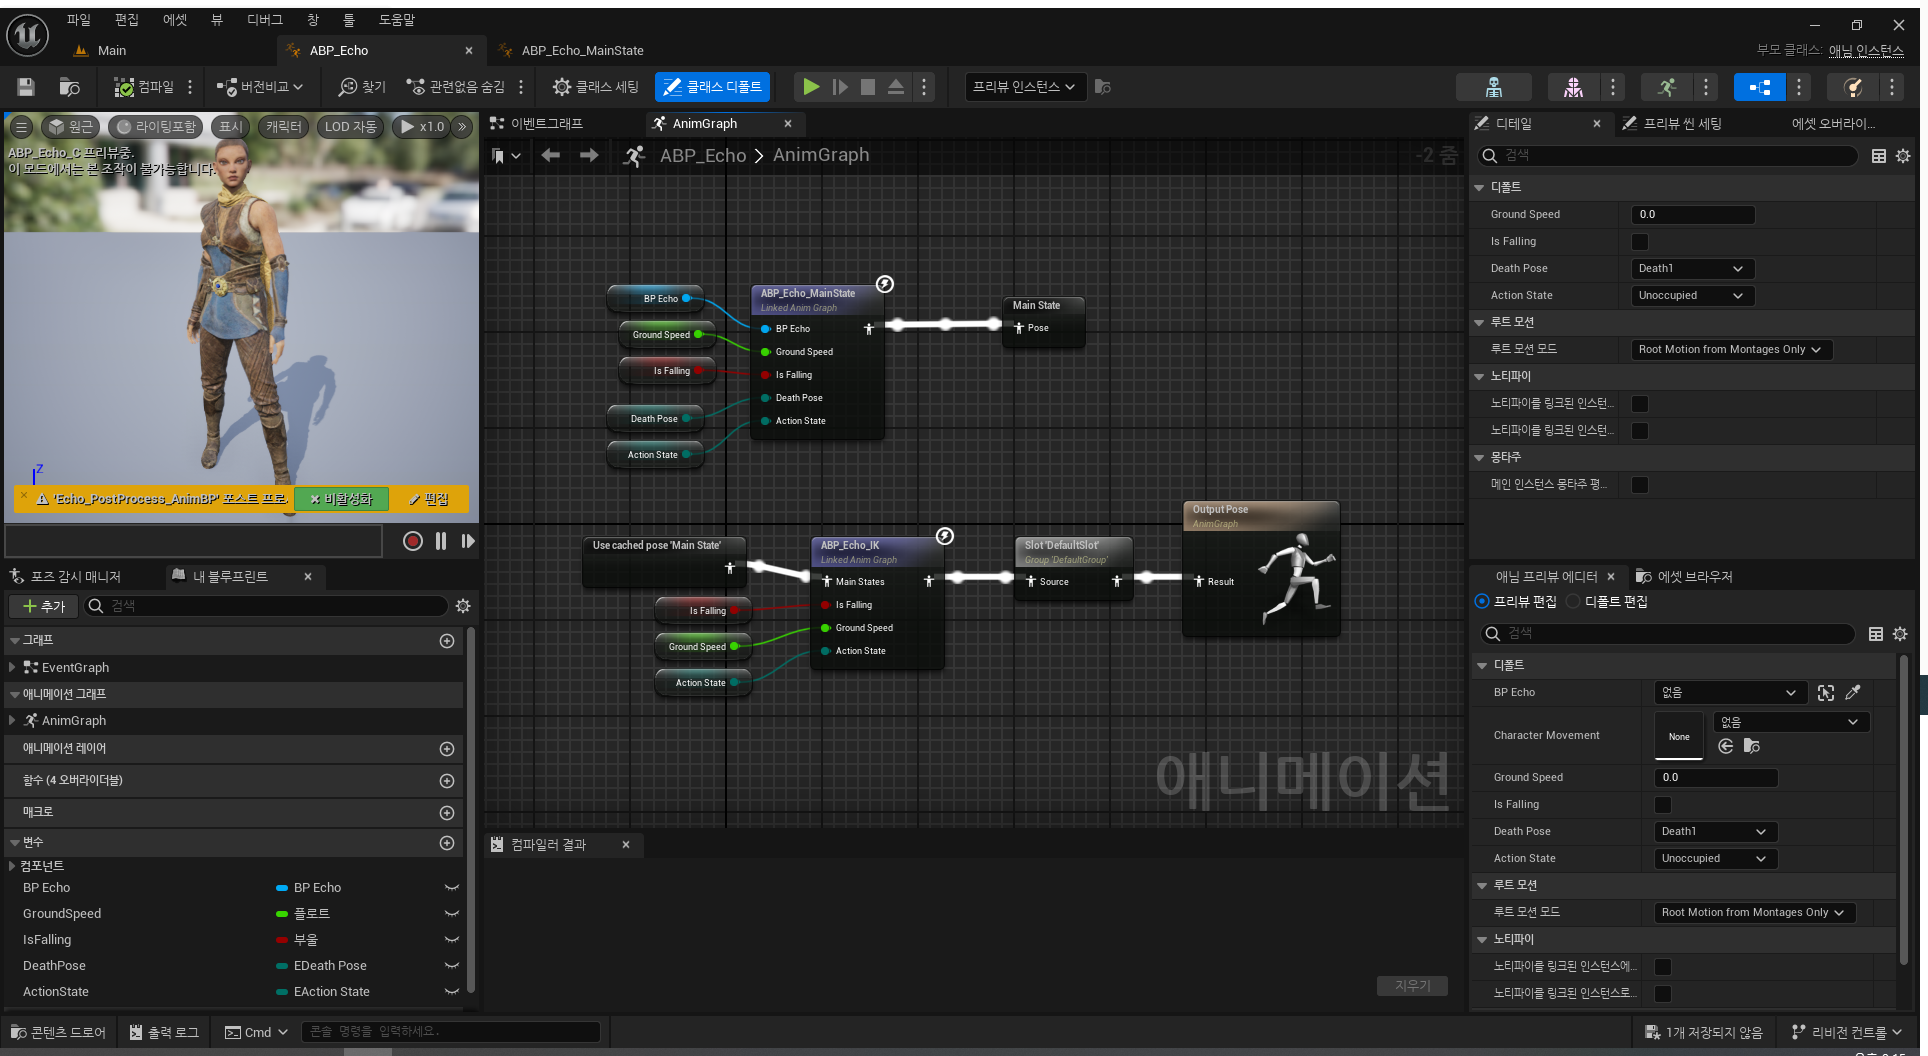
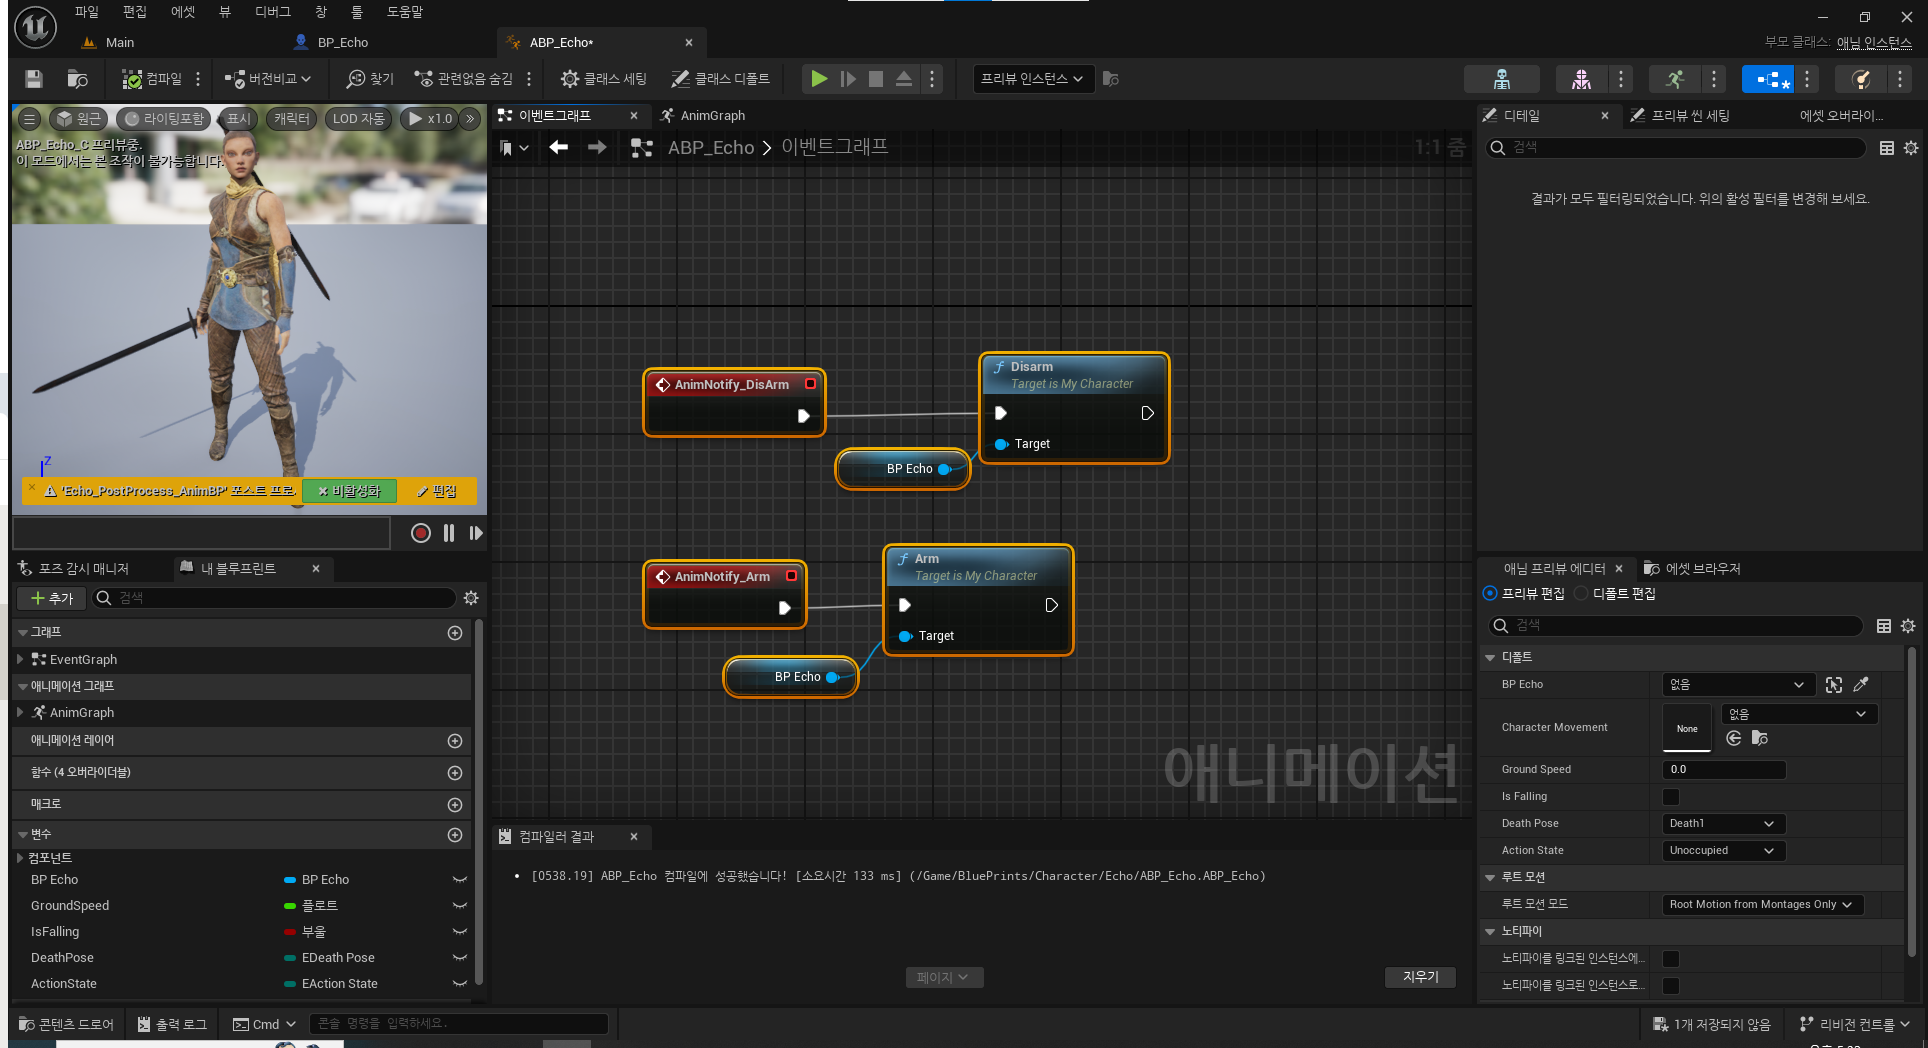
read me 변경

diff --git a/Basic RPG 09a849449f8f4e56857c8d6141968601/Animation 33b75fdd365c44f8b93b3544d35ba53e.md b/Basic RPG 09a849449f8f4e56857c8d6141968601/Animation 33b75fdd365c44f8b93b3544d35ba53e.md
@@ -1,10 +1,48 @@
 # Animation
 
-# Cached Pose
+# Weapon Equip
+
+### 스켈레탈 메시에 소켓을 추가하여 무기가 부착 될 위치 조정
 
 ![Untitled](Animation%2033b75fdd365c44f8b93b3544d35ba53e/Untitled.png)
 
+### 애님 몽타주와 노티파이를 활용하여 타이밍 체크
+
 ![Untitled](Animation%2033b75fdd365c44f8b93b3544d35ba53e/Untitled%201.png)
+
+### Weapon 부착을 위한 코드 추가
+
+```cpp
+void AMyCharacter::Disarm()
+{
+	if (EquippedWeapon)
+	{
+		EquippedWeapon->AttachMeshToSocket(GetMesh(), FName("SpineSocket"));
+	}
+}
+
+void AMyCharacter::Arm()
+{
+	if (EquippedWeapon)
+	{
+		EquippedWeapon->AttachMeshToSocket(GetMesh(), FName("RightHandSocket"));
+	}
+}
+```
+
+### 애니메이션 블루프린트에서 이벤트 그래프 활용
+
+![Untitled](Animation%2033b75fdd365c44f8b93b3544d35ba53e/Untitled%202.png)
+
+### 결과물
+
+![장착탈착.gif](Animation%2033b75fdd365c44f8b93b3544d35ba53e/%25EC%259E%25A5%25EC%25B0%25A9%25ED%2583%2588%25EC%25B0%25A9.gif)
+
+# Cached Pose
+
+![Untitled](Animation%2033b75fdd365c44f8b93b3544d35ba53e/Untitled%203.png)
+
+![Untitled](Animation%2033b75fdd365c44f8b93b3544d35ba53e/Untitled%204.png)
 
 애니메이션 포즈의 결과를 저장하여 다른곳에서 사용 가능
 
@@ -12,19 +50,19 @@
 
 ABP_Echo
 
-![Untitled](Animation%2033b75fdd365c44f8b93b3544d35ba53e/Untitled%202.png)
+![Untitled](Animation%2033b75fdd365c44f8b93b3544d35ba53e/Untitled%205.png)
 
 ABP_Echo_MainState
 
-![Untitled](Animation%2033b75fdd365c44f8b93b3544d35ba53e/Untitled%203.png)
+![Untitled](Animation%2033b75fdd365c44f8b93b3544d35ba53e/Untitled%206.png)
 
 애니메이션 블루프린트에서 다른 애니메이션 블루프린트를 불러와 사용하는 방식
 
 # 애님 몽타주 노티파이 활용
 
-![Untitled](Animation%2033b75fdd365c44f8b93b3544d35ba53e/Untitled%204.png)
+![Untitled](Animation%2033b75fdd365c44f8b93b3544d35ba53e/Untitled%207.png)
 
-![Untitled](Animation%2033b75fdd365c44f8b93b3544d35ba53e/Untitled%205.png)
+![Untitled](Animation%2033b75fdd365c44f8b93b3544d35ba53e/Untitled%208.png)
 
 사운드 재생, 공격 시작 및 종료시 노티파이를 추가
 
@@ -34,11 +72,11 @@ ABP_Echo_MainState
 
 사용을 위해선 플러그인 추가
 
-![Untitled](Animation%2033b75fdd365c44f8b93b3544d35ba53e/Untitled%206.png)
+![Untitled](Animation%2033b75fdd365c44f8b93b3544d35ba53e/Untitled%209.png)
 
 타겟을 설정하여 애님 몽타주 실행중 방향 전환 혹은 이동에 사용 가능
 
-![Untitled](Animation%2033b75fdd365c44f8b93b3544d35ba53e/Untitled%207.png)
+![Untitled](Animation%2033b75fdd365c44f8b93b3544d35ba53e/Untitled%2010.png)
 
 # IK 릭과 IK 리타게터를 활용한 애니메이션 활용
 
@@ -48,16 +86,16 @@ ABP_Echo_MainState
 
 애니메이션을 보유한 스켈레톤과 애니메이션을 사용하고 싶은 스켈레톤에서 진행
 
-![Untitled](Animation%2033b75fdd365c44f8b93b3544d35ba53e/Untitled%208.png)
+![Untitled](Animation%2033b75fdd365c44f8b93b3544d35ba53e/Untitled%2011.png)
 
-![Untitled](Animation%2033b75fdd365c44f8b93b3544d35ba53e/Untitled%209.png)
+![Untitled](Animation%2033b75fdd365c44f8b93b3544d35ba53e/Untitled%2012.png)
 
 1. 리타겟 루트 설정
 2. 체인 추가 및 체인 이름 설정
 
 ## IK 리타게터 생성
 
-![Untitled](Animation%2033b75fdd365c44f8b93b3544d35ba53e/Untitled%2010.png)
+![Untitled](Animation%2033b75fdd365c44f8b93b3544d35ba53e/Untitled%2013.png)
 
 IK 리타게터를 생성해 소스와 타깃을 설정
 

diff --git a/README.md b/README.md
@@ -1,5 +1,6 @@
 # Basic RPG
 
+##GIf가 보이지 않을 경우
 [Notion Link](https://amazing-pigment-a3d.notion.site/Basic-RPG-09a849449f8f4e56857c8d6141968601)
 
 [Enhanced Input](Basic%20RPG%2009a849449f8f4e56857c8d6141968601/Enhanced%20Input%20101906a3bc7d456faa64f3090e81734a.md)
